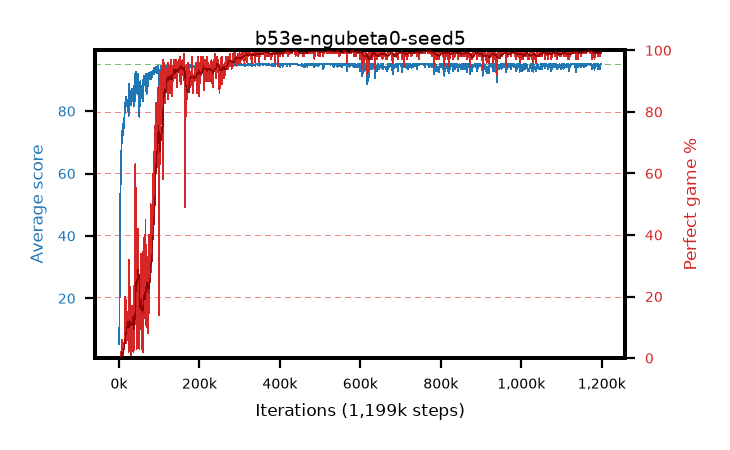
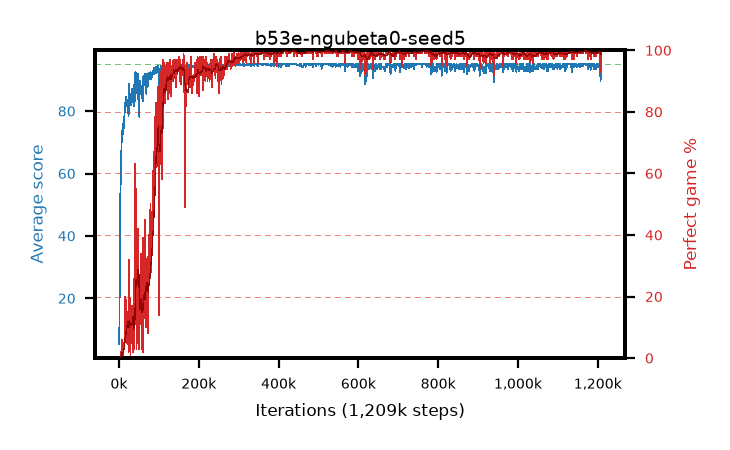
live pictures of 4 arm(s)

diff --git a/results/b53e-ngubeta0-seed5/b53e-ngubeta0-seed5.md b/results/b53e-ngubeta0-seed5/b53e-ngubeta0-seed5.md
@@ -1,6 +1,6 @@
 # b53e-ngubeta0-seed5
 
-step **1,199,000** · 1199 evals · trailing **94.55** · peak **94.95** @437,000 · sef **91.6** · best30 **99.8** @530,000
+step **1,209,000** · 1209 evals · trailing **94.39** · peak **94.95** @437,000 · sef **91.6** · best30 **99.8** @530,000
 
 ## Config
 
@@ -80,15 +80,15 @@ step **1,199,000** · 1199 evals · trailing **94.55** · peak **94.95** @437,00
 | 2000 | 29.39 | 17.35 | 3.0 | 54.0 | 24.459 | 0.0 | 0.4 |
 | 3000 | 50.81 | 28.5 | 16.0 | 85.0 | 45.457 | 0.0 | 0.4 |
 | ... | ... | ... | ... | ... | ... | ... | ... |
-| 1188000 | 95.0 | 94.71 | 95.0 | 95.0 | 193.787 | 100.0 | 0.4 |
-| 1189000 | 95.0 | 94.71 | 95.0 | 95.0 | 193.787 | 100.0 | 0.4 |
-| 1190000 | 93.47 | 94.69 | 15.0 | 95.0 | 190.176 | 98.0 | 0.4 |
-| 1191000 | 93.53 | 94.64 | 16.0 | 95.0 | 190.239 | 98.0 | 0.4 |
-| 1192000 | 95.0 | 94.66 | 95.0 | 95.0 | 193.788 | 100.0 | 0.4 |
-| 1193000 | 94.83 | 94.65 | 78.0 | 95.0 | 192.614 | 99.0 | 0.4 |
-| 1194000 | 94.15 | 94.63 | 10.0 | 95.0 | 191.902 | 99.0 | 0.4 |
-| 1195000 | 94.24 | 94.6 | 19.0 | 95.0 | 191.993 | 99.0 | 0.4 |
-| 1196000 | 93.57 | 94.55 | 22.0 | 95.0 | 190.27 | 98.0 | 0.4 |
-| 1197000 | 95.0 | 94.55 | 95.0 | 95.0 | 193.788 | 100.0 | 0.4 |
 | 1198000 | 95.0 | 94.55 | 95.0 | 95.0 | 193.786 | 100.0 | 0.4 |
 | 1199000 | 95.0 | 94.55 | 95.0 | 95.0 | 193.784 | 100.0 | 0.4 |
+| 1200000 | 95.0 | 94.56 | 95.0 | 95.0 | 193.787 | 100.0 | 0.4 |
+| 1201000 | 94.19 | 94.54 | 14.0 | 95.0 | 191.939 | 99.0 | 0.4 |
+| 1202000 | 95.0 | 94.54 | 95.0 | 95.0 | 193.778 | 100.0 | 0.4 |
+| 1203000 | 94.77 | 94.53 | 72.0 | 95.0 | 192.558 | 99.0 | 0.4 |
+| 1204000 | 95.0 | 94.53 | 95.0 | 95.0 | 193.783 | 100.0 | 0.4 |
+| 1205000 | 94.99 | 94.53 | 94.0 | 95.0 | 192.733 | 99.0 | 0.4 |
+| 1206000 | 94.28 | 94.57 | 23.0 | 95.0 | 192.032 | 99.0 | 0.4 |
+| 1207000 | 89.47 | 94.41 | 8.0 | 95.0 | 180.986 | 93.0 | 0.4 |
+| 1208000 | 95.0 | 94.44 | 95.0 | 95.0 | 193.781 | 100.0 | 0.4 |
+| 1209000 | 93.68 | 94.39 | 25.0 | 95.0 | 190.394 | 98.0 | 0.4 |
